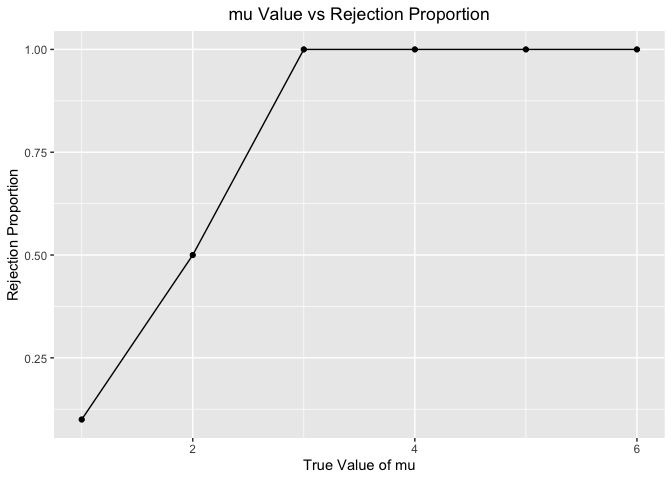
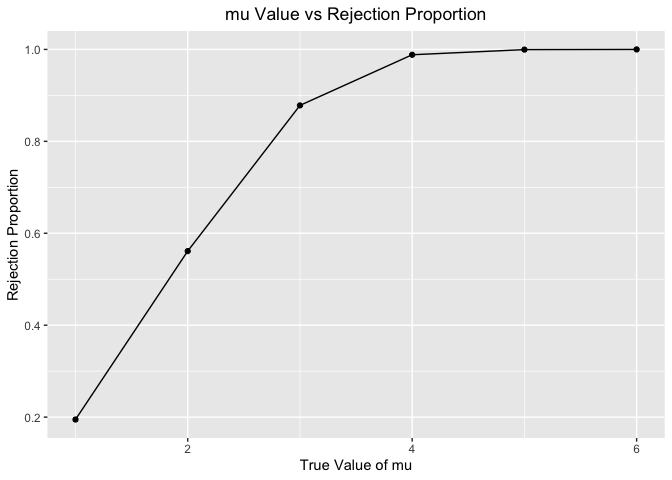
change 10 to 5000...

diff --git a/p8105_hw5_fy2297.md b/p8105_hw5_fy2297.md
@@ -145,7 +145,7 @@ test_func = function(n = 30, mu, sigma = 5){
 
 # generate 5000 datasets from the model and save mu_hat and p-value
 model_test =
-  rerun(10, test_func(mu = 0)) %>% 
+  rerun(5000, test_func(mu = 0)) %>% 
   bind_rows() %>% 
   mutate(
     mu_hat = t_test_stats$estimate,
@@ -156,25 +156,26 @@ model_test =
 model_test
 ```
 
-    ## # A tibble: 10 × 2
-    ##     mu_hat p_value
-    ##      <dbl>   <dbl>
-    ##  1  0.602   0.575 
-    ##  2 -1.56    0.0638
-    ##  3  0.129   0.887 
-    ##  4 -0.410   0.682 
-    ##  5  0.424   0.549 
-    ##  6  1.56    0.0614
-    ##  7 -0.0740  0.932 
-    ##  8 -0.881   0.365 
-    ##  9  0.0985  0.917 
-    ## 10  0.846   0.420
+    ## # A tibble: 5,000 × 2
+    ##    mu_hat p_value
+    ##     <dbl>   <dbl>
+    ##  1 -0.834  0.331 
+    ##  2 -1.05   0.296 
+    ##  3  1.38   0.115 
+    ##  4  1.11   0.333 
+    ##  5  1.53   0.0968
+    ##  6  0.764  0.418 
+    ##  7  1.53   0.0505
+    ##  8  0.405  0.565 
+    ##  9  0.372  0.710 
+    ## 10  0.555  0.549 
+    ## # … with 4,990 more rows
 
 ``` r
 # repeat for different mu
 diff_mu_df = 
   tibble(mu_list = c(1:6)) %>% 
-  mutate(output = map(.x = mu_list, ~rerun(10,test_func(mu = .x)))) %>% 
+  mutate(output = map(.x = mu_list, ~rerun(5000,test_func(mu = .x)))) %>% 
   bind_rows() %>% 
   unnest() %>% 
   unnest(cols = output) %>% 
